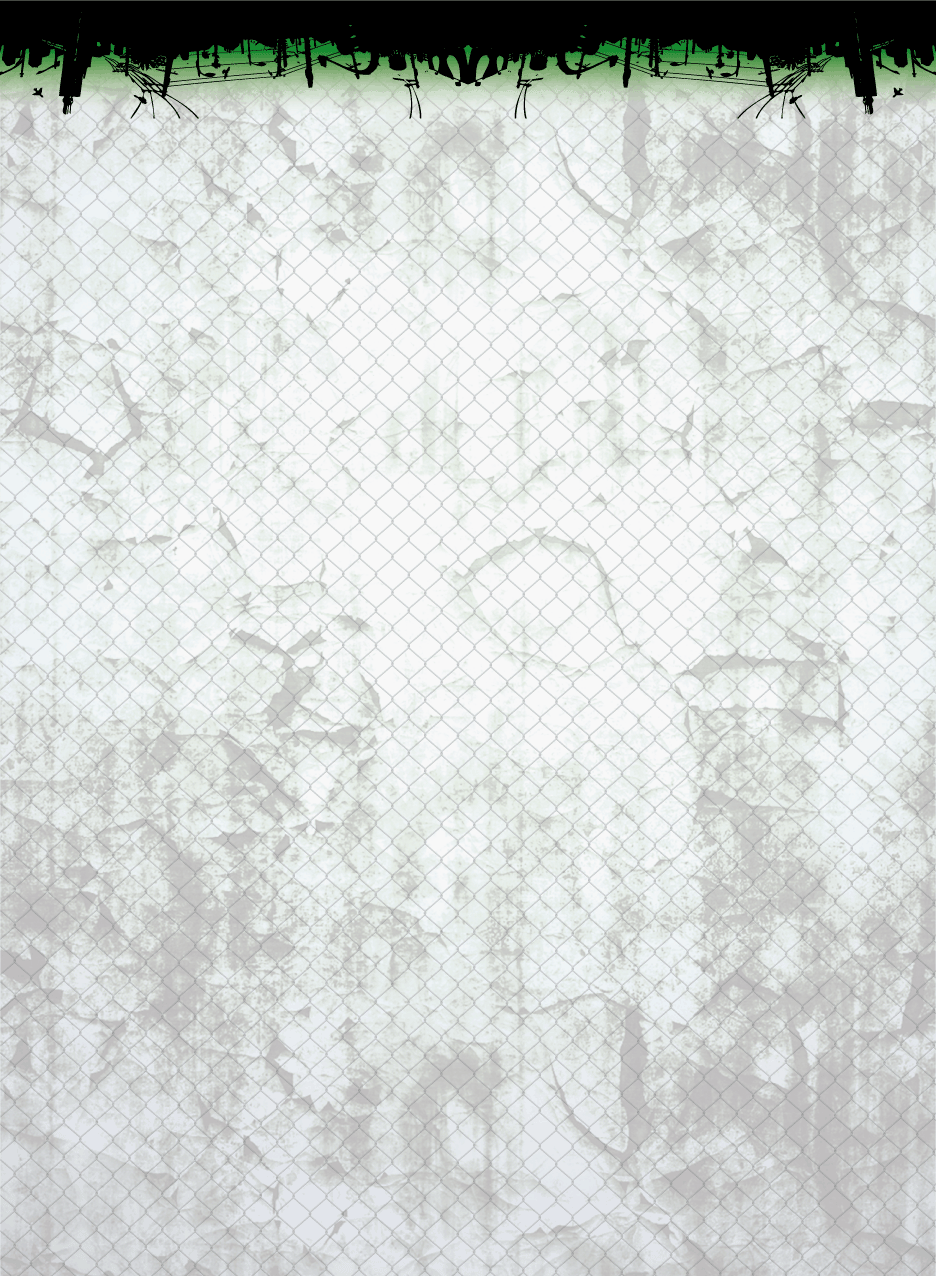
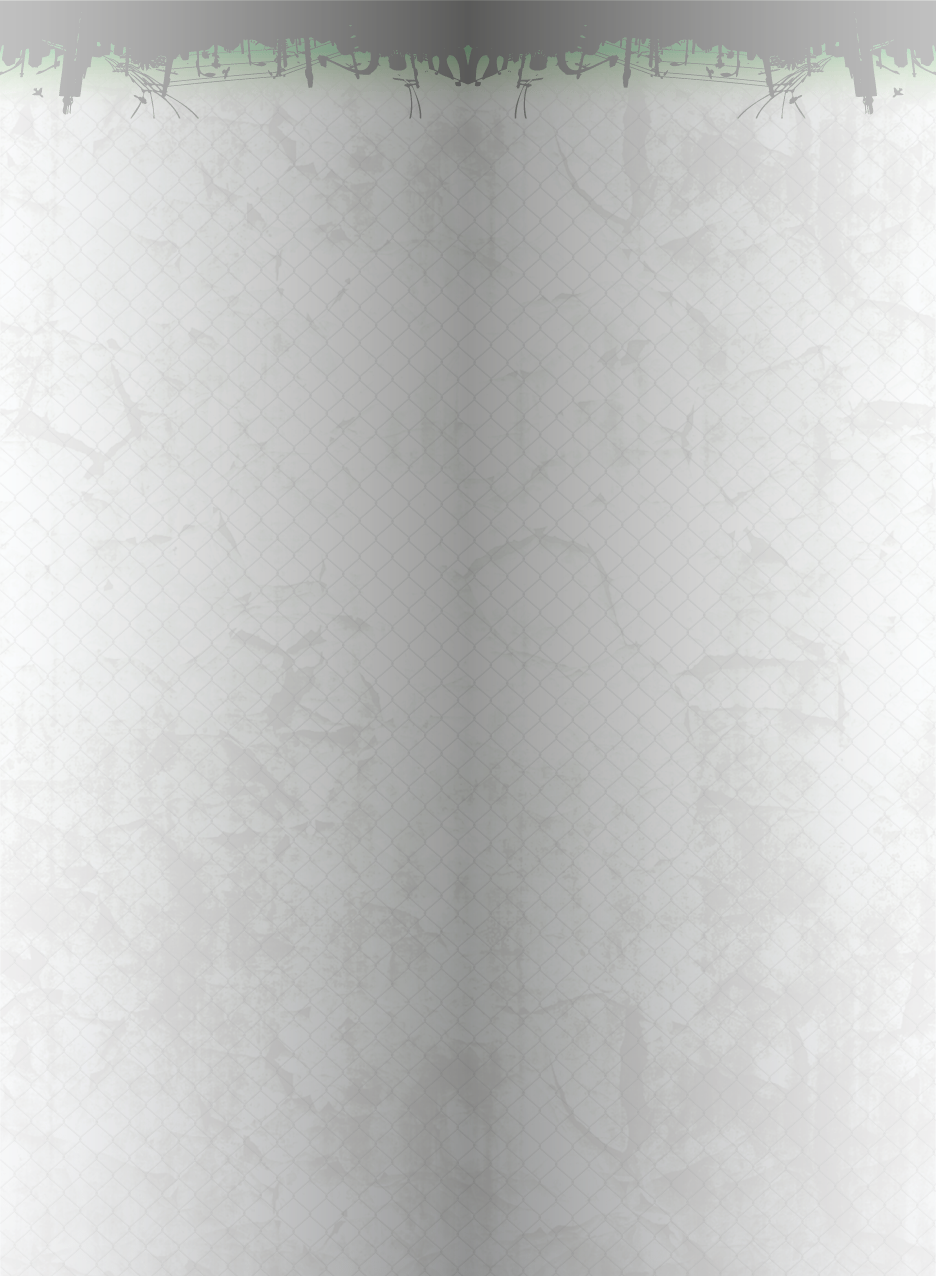
sfondo

diff --git a/public/css/main.css b/public/css/main.css
@@ -28,7 +28,7 @@ html, body {
 body {
   padding: 0;
   margin: 0;
-  background: url(/images/sfondo_rete2.png) repeat-x;
+  background: url(/images/sfondo3.png) repeat-x;
   font-family: clemente, Helvetica, Verdana, Arial;
   text-align: center; }
 
@@ -41,14 +41,14 @@ a:hover {
   text-shadow: 2px 0px 3px light-grey; }
 
 header h1 {
-  margin: 30px auto 20px auto; }
+  margin: -30px auto 30px auto; }
   header h1 img {
     margin: 30px auto 20px auto;
     display: block;
     width: 90px; }
 
 nav {
-  margin: 0px 0px 0px 0px;
+  margin: -23px 0px 0px 0px;
   background: black;
   text-align: center;
   padding: 4px;

diff --git a/sass/main.sass b/sass/main.sass
@@ -38,7 +38,7 @@ html, body
 body
   padding: 0
   margin: 0
-  background: url(/images/sfondo_rete2.png) repeat-x
+  background: url(/images/sfondo3.png) repeat-x
   font-family: clemente, Helvetica, Verdana, Arial
   text-align: center
 
@@ -53,7 +53,7 @@ a:hover
 // stile layout
 
 header h1
-  margin: 30px auto 20px auto
+  margin: -30px auto 30px auto
 
 
   img
@@ -63,7 +63,7 @@ header h1
 
 
 nav
-  margin: 0px 0px 0px 0px
+  margin: -23px 0px 0px 0px
   background: black
   text-align: center
   padding: 4px
@@ -253,11 +253,3 @@ body.ie
 body.ie
   .design, .work
     width: 29.2%
-
-
-
-
-
-
-
-
